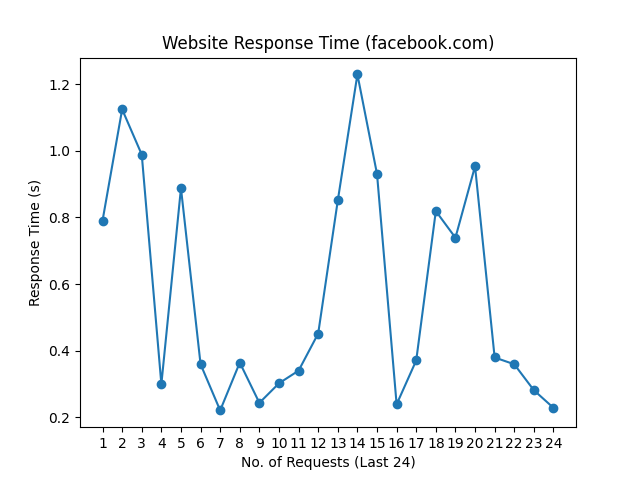
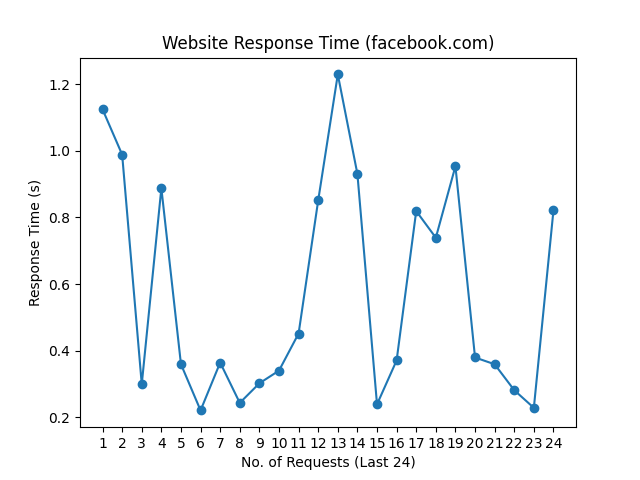
update README.md, history and graph

Changed region(s): [[0.1562, 0.125, 0.875, 0.875], [0.8438, 0.4062, 0.875, 0.7188]]

diff --git a/README.md b/README.md
@@ -1,10 +1,10 @@
 # Web Monitoring
 
-Last Checked: 15/04/2024 11:22
+Last Checked: 16/04/2024 09:00
 
 | Website | Response Time (s) | Status | Avg Uptime (%) |
 |---------|-------------------|--------|----------------|
 | www.thiswebsiteisdown.net | 0 <br> <img src="graph/thiswebsiteisdown.net.png" alt="Graph" width="200" height="200">  | ❌ Down | 0.00 |
-| www.netflix.com | 0.457468 <br> <img src="graph/netflix.com.png" alt="Graph" width="200" height="200">  | ✅ Up | 100.00 |
-| www.google.com | 0.089730 <br> <img src="graph/google.com.png" alt="Graph" width="200" height="200">  | ✅ Up | 100.00 |
-| www.facebook.com | 0.227838 <br> <img src="graph/facebook.com.png" alt="Graph" width="200" height="200">  | ✅ Up | 100.00 |
+| www.netflix.com | 1.118662 <br> <img src="graph/netflix.com.png" alt="Graph" width="200" height="200">  | ✅ Up | 100.00 |
+| www.google.com | 0.362341 <br> <img src="graph/google.com.png" alt="Graph" width="200" height="200">  | ✅ Up | 100.00 |
+| www.facebook.com | 0.821208 <br> <img src="graph/facebook.com.png" alt="Graph" width="200" height="200">  | ✅ Up | 100.00 |
